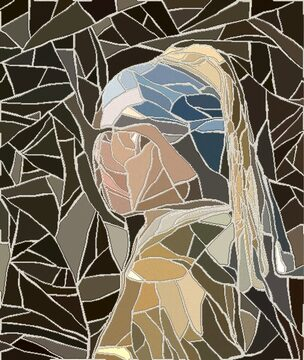
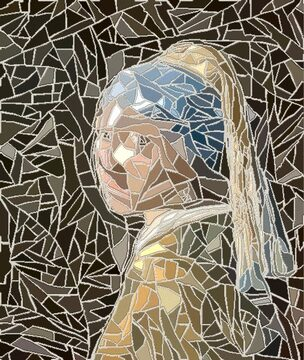
Grietas: no se da la imagen por llena antes de tiempo; README de la vista única
La separación mínima hacía fallar más intentos de nacimiento y el
crecimiento paraba con ~100 trozos en vez de ~650. Ahora solo se para
tras cinco nacimientos fallidos seguidos.

diff --git a/test/cracks.test.js b/test/cracks.test.js
@@ -27,17 +27,27 @@ describe('slivers', () => {
 });
 
 describe('crack spacing', () => {
-  it('a minimum gap leaves fewer thin pieces', () => {
+  it('minimum gap plus sliver merging leaves almost no thin pieces', () => {
     const img = syntheticImage(320, 220);
     const p = { ...DEFAULTS, algorithm: 'cracks' };
     const an = analyze(img, p);
-    const thin = (gap) => {
+    const thin = (gap, minWidth) => {
       const { labels } = growCracks(an, { ...p, crackGap: gap }, mulberry32(5));
-      const widths = regionWidths(labels, img.w, img.h);
+      const merged = mergeSlivers(labels, img.w, img.h, an.size, minWidth);
       let n = 0;
-      for (const [, width] of widths) if (width < 3) n++;
+      for (const [, width] of regionWidths(merged, img.w, img.h)) if (width < 3) n++;
       return n;
     };
-    expect(thin(0.4)).toBeLessThan(thin(0) * 0.6);
+    expect(thin(0.35, 0.3)).toBeLessThan(thin(0, 0) * 0.2);
+  });
+});
+
+describe('crack count', () => {
+  it('the minimum gap does not stop crack growth early', () => {
+    const img = syntheticImage(400, 300);
+    const p = { ...DEFAULTS, algorithm: 'cracks', minWidth: 0 };
+    const an = analyze(img, p);
+    const regions = (gap) => new Set(growCracks(an, { ...p, crackGap: gap }, mulberry32(9)).labels).size;
+    expect(regions(0.35)).toBeGreaterThan(regions(0) * 0.6);
   });
 });

diff --git a/src/core/cracks.js b/src/core/cracks.js
@@ -28,8 +28,12 @@ export function growCracks(an, p, rng) {
 
   let nextId = 1, born = 0;
   const active = [];
+  // A birth can fail because the point is on a crack, is rejected by the
+  // density test or is too close to another crack. Only several failed births
+  // in a row mean the image is full.
+  let failures = 0;
   const birth = () => {
-    for (let t = 0; t < 200; t++) {
+    for (let t = 0; t < 2000; t++) {
       const x = 1 + rng() * (w - 2), y = 1 + rng() * (h - 2);
       const i = (y | 0) * w + (x | 0);
       if (owner[i] >= 0) continue;
@@ -42,9 +46,10 @@ export function growCracks(an, p, rng) {
       owner[i] = id;
       for (const dir of [0, Math.PI]) active.push({ x, y, a: a + dir, id, px: x | 0, py: y | 0, steps: 0 });
       born++;
+      failures = 0;
       return;
     }
-    born = target; // the image is saturated with cracks
+    if (++failures >= 5) born = target; // the image is full of cracks
   };
 
   const STEP = 0.4;

diff --git a/README.md b/README.md
@@ -6,28 +6,26 @@ Trencadís convierte una foto en un mosaico de azulejo roto, como los bancos del
 
 ## Cómo se usa
 
-En la entrada eliges entre dos modos y subes una foto (o usas uno de los dos cuadros de ejemplo). Puedes cambiar de modo en cualquier momento sin perder lo que has ajustado.
+La app abre con un cuadro de ejemplo ya convertido. Sube tu foto con «Subir foto» o arrastrándola sobre la imagen.
 
-**Hazlo ya.** El mosaico en grande, cuatro estilos y tres controles: tamaño de los trozos, parecido a la foto y brillo del esmalte.
+A la derecha están los cuatro pasos, en orden: 1 Detalle, 2 Trozos, 3 Colores y 4 Acabado. Cada uno tiene sus controles principales, «Más ajustes» con el resto de parámetros (cada uno con una línea que dice qué pasa al subirlo o bajarlo), «¿Qué hace?» con la explicación y la fórmula, y «Ver este paso», que cambia la imagen grande por el resultado parcial de ese paso.
 
-**Paso a paso.** Cinco pasos: Foto, Detalle, Trozos, Color y Acabado. Cada uno enseña su imagen intermedia, explica qué hace (con la fórmula desplegable) y muestra solo los controles que le afectan.
+Si una zona tiene mucho detalle que no te interesa (reflejos de sol en el agua, césped, hojas), hay dos herramientas en Detalle. «Ignorar texturas» rebaja de forma automática el detalle que no sigue una dirección clara. El pincel de detalle permite pintar sobre la foto para quitar detalle o para añadirlo donde quieras trozos más pequeños.
 
-En los dos modos, el interruptor Simple / Avanzado muestra todos los parámetros reales del paso, cada uno con una línea que dice qué pasa al subirlo o bajarlo. Los controles simples mueven varios parámetros a la vez; si después tocas uno a mano, el control simple pasa a «personalizado».
-
-El acabado (junta, bisel, luz, brillo) se dibuja en la tarjeta gráfica y responde al momento. Mientras arrastras un control de detalle o de trozos se calcula una vista previa a media resolución, y al soltarlo, el resultado completo. El PNG se descarga al tamaño elegido en Acabado.
+El acabado (junta, colocación, bisel, luz, brillo) se dibuja en la tarjeta gráfica y responde al momento. Mientras arrastras un control de detalle o de trozos se calcula una vista previa a media resolución, y al soltarlo, el resultado completo. El PNG se descarga al tamaño elegido en Acabado.
 
 ## Cómo funciona
 
-1. **Detalle.** Se mide la energía de alta frecuencia D(x) = |L − desenfoque(L, σ)|, suavizada y normalizada. De ahí sale el tamaño de trozo s(x) = s_max − (s_max − s_min)·D(x)^γ, y del tensor de estructura, la dirección de los bordes θ(x). Los desenfoques son tres pasadas de box blur con el σ exacto (Kovesi). En imágenes grandes los mapas se calculan a media resolución y se interpolan, porque son suaves.
+1. **Detalle.** Se mide la energía de alta frecuencia D(x) = |L − desenfoque(L, σ)|, suavizada y normalizada. «Ignorar texturas» la rebaja donde el tensor de estructura, medido a una escala 2,5 veces mayor, no encuentra una dirección dominante, y el pincel la multiplica o la eleva según lo pintado. De ahí sale el tamaño de trozo s(x) = s_max − (s_max − s_min)·D(x)^γ, y del tensor de estructura, la dirección de los bordes θ(x). Los desenfoques son tres pasadas de box blur con el σ exacto (Kovesi). En imágenes grandes los mapas se calculan a media resolución y se interpolan, porque son suaves.
 2. **Trozos.** Seis métodos:
-   - Cortes rectos: se parte la imagen con rectas hasta llegar al tamaño pedido. En cada corte se prueban N rectas y se elige una con probabilidad ∝ exp(−coste/T), donde el coste es la varianza de color que queda en las dos mitades más un castigo a las astillas. Salen uniones en T, como en el azulejo roto.
-   - Grietas: inspirado en *Substrate* de Jared Tarbell. Cada grieta nace en un punto interior y crece en los dos sentidos hasta chocar con otra.
+   - Cortes rectos: la imagen se divide en azulejos irregulares (Voronoi) de unas 3,5 veces el tamaño de trozo, y cada azulejo se parte con rectas hasta llegar al tamaño pedido. Así ningún corte cruza la imagen. En cada corte se prueban N rectas y se elige una con probabilidad ∝ exp(−coste/T), donde el coste es la varianza de color que queda en las dos mitades más un castigo a las astillas. Salen uniones en T, como en el azulejo roto.
+   - Grietas: inspirado en *Substrate* de Jared Tarbell. Cada grieta nace en un punto interior, lejos de otras grietas, y crece en los dos sentidos hasta chocar con otra. Los trozos más estrechos que el grosor mínimo se unen al vecino con el que comparten más borde (lo mismo se hace con las teselas alargadas y las manchas de color).
    - Teselas redondeadas: Voronoi con semillas de Poisson-disk de radio variable (Bridson) y relajación de Lloyd ponderada por 1/s(x)².
    - Teselas alargadas: Voronoi con una métrica estirada a lo largo de los bordes, como en Hausner (2001).
    - Teselas partidas: teselas redondeadas grandes que reciben unos pocos cortes rectos.
    - Manchas de color: superpíxeles SLIC con la separación tomada de s(x) y bordes simplificados con Douglas-Peucker.
 3. **Color.** Un color por trozo (media, más vivo, el más frecuente, mediana o el del centro), con paleta opcional (k-means de la foto o un juego fijo de azulejos de taller) y una pequeña variación al azar.
-4. **Acabado.** En WebGL2: los trozos se triangulan con earcut y se dibujan con su índice; un jump flood da a cada píxel la distancia al borde más cercano; el último pase pinta la junta, el bisel, la inclinación de cada trozo y un brillo Blinn-Phong. Si el navegador no tiene WebGL2, el mismo acabado se calcula en la CPU.
+4. **Acabado.** En WebGL2: los trozos se triangulan con earcut y se dibujan con su índice, cada uno algo girado, desplazado y encogido según «Colocación a mano»; un jump flood da a cada píxel la distancia al borde más cercano; el último pase pinta la junta, el bisel, la inclinación de cada trozo y un brillo Blinn-Phong. Si el navegador no tiene WebGL2, el mismo acabado se calcula en la CPU.
 
 ## Desarrollo
 
@@ -37,7 +35,7 @@ npm run dev                  # servidor local
 npm test                     # tests del núcleo (Vitest)
 npm run build                # sitio estático en dist/
 node scripts/bench.mjs       # tiempos por etapa en una imagen sintética
-node scripts/thumbs.mjs      # regenera las miniaturas de public/styles/
+node scripts/thumbs.mjs      # regenera las miniaturas de los métodos
 ```
 
 `scripts/thumbs.mjs` necesita Chromium; usa `/usr/bin/chromium-browser` o la ruta de la variable `CHROMIUM`. Con el servidor de desarrollo arrancado, `test/browser/gl.html` comprueba el renderer WebGL y mide los fps, y añadir `?debug` a la URL de la app guarda los tiempos de cada cálculo en `window.__runs`.
@@ -48,7 +46,7 @@ Cada push a `main` se publica en GitHub Pages mediante `.github/workflows/deploy
 
 ## Créditos
 
-- Los cuadros de ejemplo son de dominio público y vienen de Wikimedia Commons: *La joven de la perla*, de Johannes Vermeer (c. 1665), y *La noche estrellada*, de Vincent van Gogh (1889).
+- Los cuadros de ejemplo son de dominio público y vienen de Wikimedia Commons: *La joven de la perla*, de Johannes Vermeer (c. 1665), y *La noche estrellada*, de Vincent van Gogh (1889). La foto de las barcas es «El Guamache Bay, Margarita island», también de Wikimedia Commons, con licencia CC0.
 - A. Hausner, «Simulating Decorative Mosaics», SIGGRAPH 2001.
 - R. Achanta et al., «SLIC Superpixels Compared to State-of-the-Art Superpixel Methods», IEEE TPAMI 2012.
 - J. Tarbell, *Substrate* (2003).
